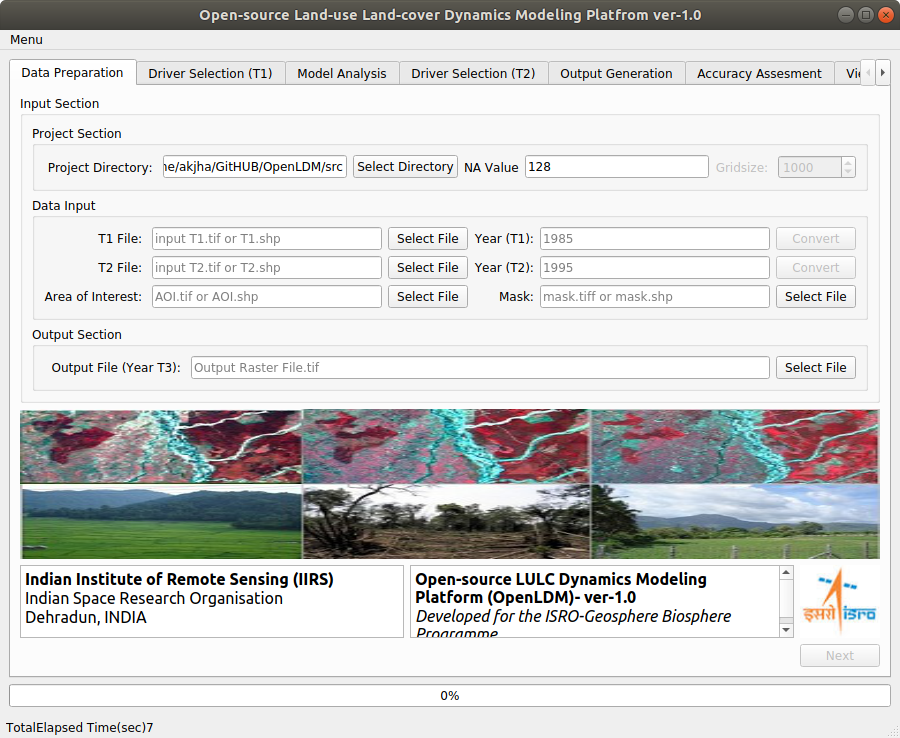
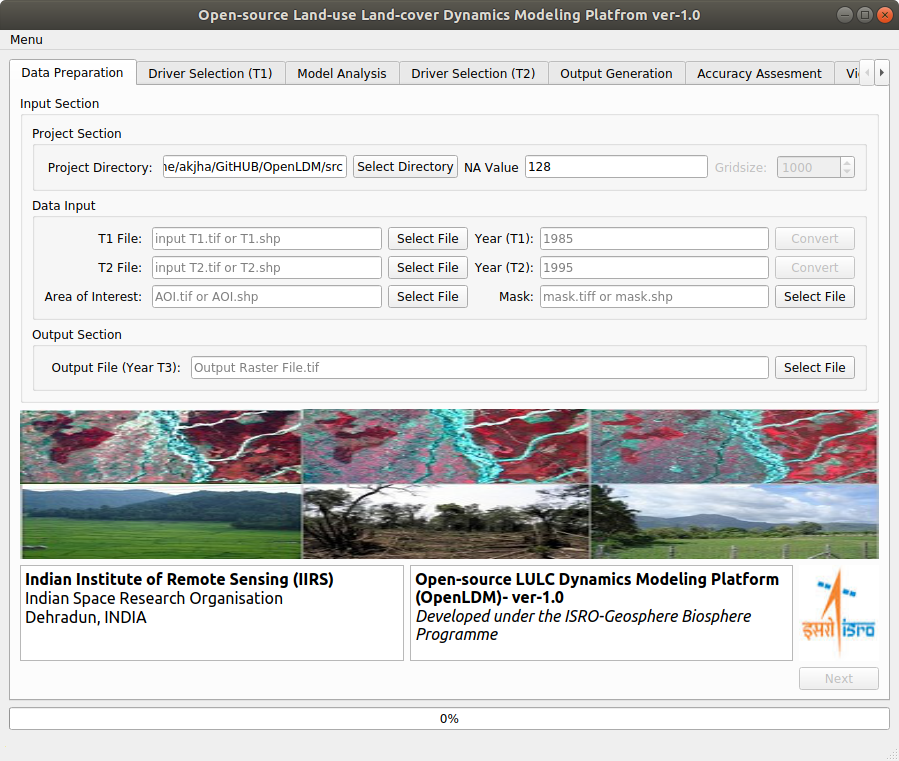
GUI update
Ui file chaged

diff --git a/src/LULCgui.py b/src/LULCgui.py
@@ -13,7 +13,7 @@ from PyQt5 import QtCore, QtGui, QtWidgets
 class Ui_LULCModel(object):
     def setupUi(self, LULCModel):
         LULCModel.setObjectName("LULCModel")
-        LULCModel.resize(1000, 800)
+        LULCModel.resize(1005, 751)
         icon = QtGui.QIcon()
         icon.addPixmap(QtGui.QPixmap(":/images/ilulc/icon.png"), QtGui.QIcon.Normal, QtGui.QIcon.Off)
         LULCModel.setWindowIcon(icon)
@@ -734,7 +734,7 @@ class Ui_LULCModel(object):
 "p, li { white-space: pre-wrap; }\n"
 "</style></head><body style=\" font-family:\'Ubuntu\'; font-size:11pt; font-weight:400; font-style:normal;\">\n"
 "<p style=\" margin-top:0px; margin-bottom:0px; margin-left:0px; margin-right:0px; -qt-block-indent:0; text-indent:0px;\"><span style=\" font-size:12pt; font-weight:600;\">Open-source LULC Dynamics Modeling Platform (OpenLDM)- ver-1.0</span></p>\n"
-"<p style=\" margin-top:0px; margin-bottom:0px; margin-left:0px; margin-right:0px; -qt-block-indent:0; text-indent:0px;\"><span style=\" font-size:12pt; font-style:italic;\">Developed for the ISRO-Geosphere Biosphere Programme</span></p></body></html>"))
+"<p style=\" margin-top:0px; margin-bottom:0px; margin-left:0px; margin-right:0px; -qt-block-indent:0; text-indent:0px;\"><span style=\" font-size:12pt; font-style:italic;\">Developed under the ISRO-Geosphere Biosphere Programme</span></p></body></html>"))
         self.pbNextDataPreparation.setText(_translate("LULCModel", "Next"))
         self.tabWidget.setTabText(self.tabWidget.indexOf(self.tabDataPreparation), _translate("LULCModel", "Data Preparation"))
         self.pbNext_DriverSelectionT0.setText(_translate("LULCModel", "Next"))
